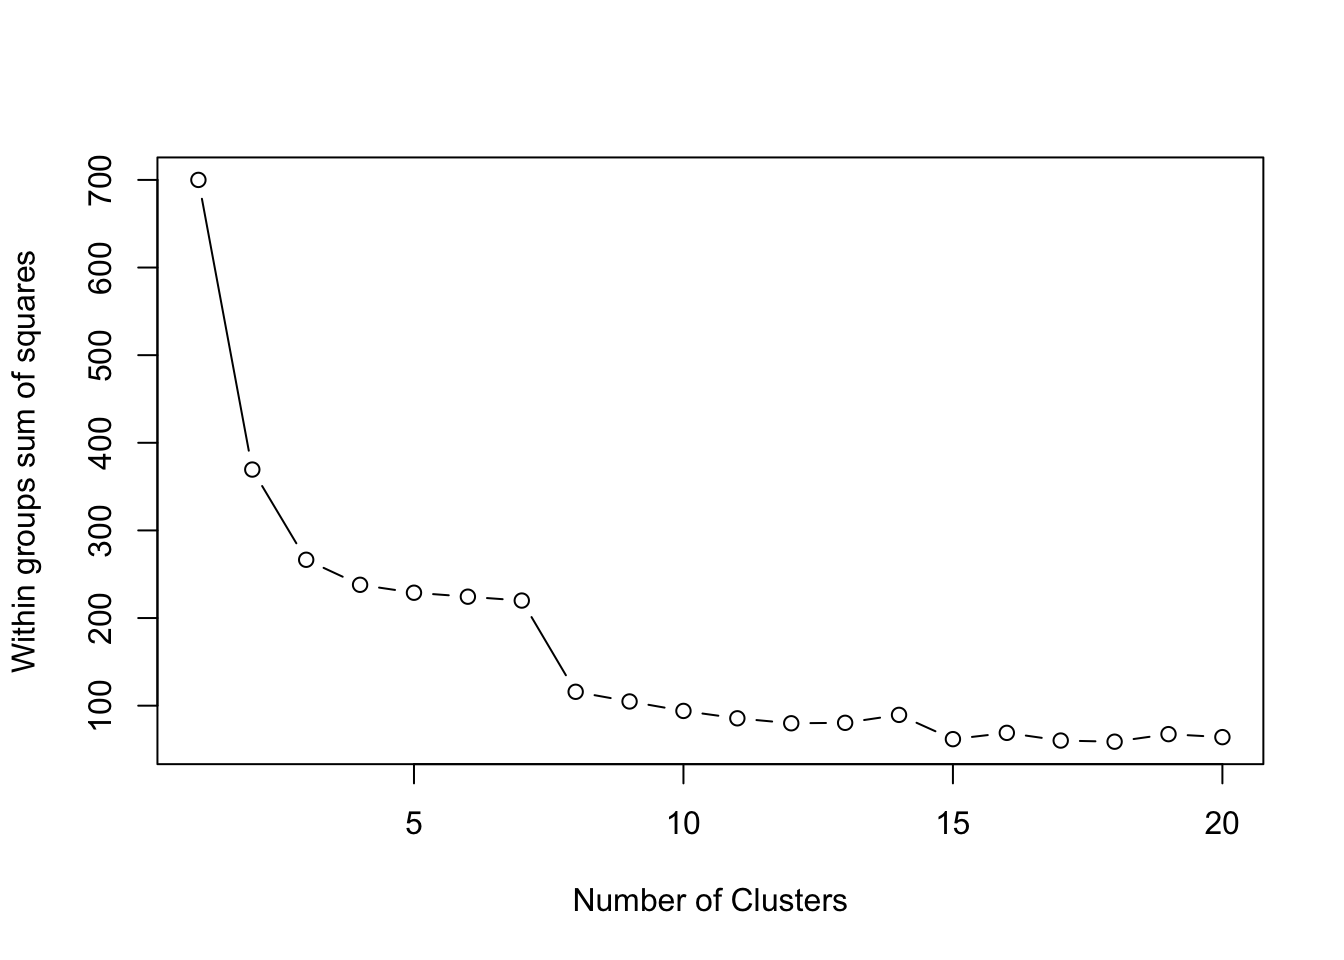
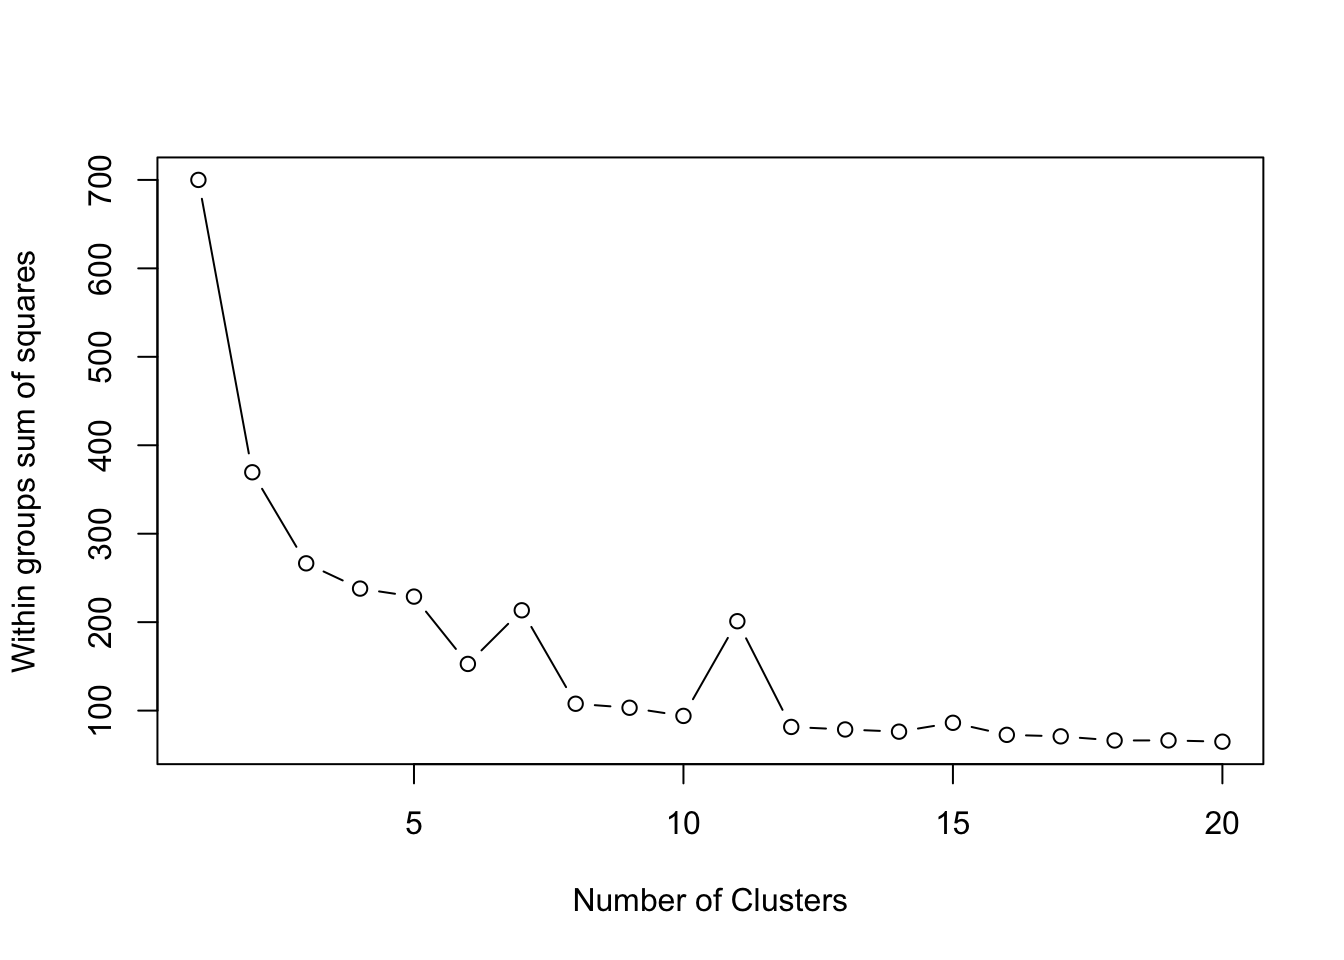
add descriptions to chunks

diff --git a/2019-09-04-Toronto_MCI.html b/2019-09-04-Toronto_MCI.html
@@ -315,6 +315,8 @@ $(document).ready(function () {
 
 
 <p><link rel="stylesheet" href="styles.css" type="text/css"></p>
+<div id="toronto-major-crime-indicators-2014-2018" class="section level1">
+<h1>Toronto Major Crime Indicators 2014-2018</h1>
 <div id="introduction" class="section level2">
 <h2>1. Introduction</h2>
 <p>Toronto Police made publicly available its data on the <strong><a href="https://data.torontopolice.on.ca/search?tags=MCI">“Toronto Police Service Public Safety Data Portal”</a></strong>.</p>
@@ -855,9 +857,9 @@ wss</code></pre>
   wss[i] &lt;- sum(kmeans(z, centers=i)$withinss)
 }
 wss</code></pre>
-<pre><code>##  [1] 700.00000 369.45787 266.50542 237.94558 228.89866 224.37644 219.95452
-##  [8] 115.84899 104.80120  94.00327  85.57967  79.91716  80.43286  89.49358
-## [15]  61.80199  68.98196  60.19511  58.89800  67.51510  64.08788</code></pre>
+<pre><code>##  [1] 700.00000 369.45787 266.50542 237.94558 228.89866 152.77542 213.41202
+##  [8] 107.75724 103.22366  94.00327 201.06666  81.53333  78.68695  76.20141
+## [15]  86.21518  72.59308  70.89679  66.22138  66.32382  64.85852</code></pre>
 <p>Plotted WSS (type=‘b’ is for both: lines and points.)</p>
 <pre class="r"><code>plot(1:20, wss, type=&#39;b&#39;, xlab=&#39;Number of Clusters&#39;, ylab=&#39;Within groups sum of squares&#39;)</code></pre>
 <p><img src="2019-09-04-Toronto_MCI_files/figure-html/WSS%20plot-1.png" width="672" /></p>
@@ -867,25 +869,25 @@ wss</code></pre>
 <h3>Fitting a model, K = 5</h3>
 <pre class="r"><code>kc &lt;- kmeans(z, 5)
 kc</code></pre>
-<pre><code>## K-means clustering with 5 clusters of sizes 24, 17, 9, 36, 55
+<pre><code>## K-means clustering with 5 clusters of sizes 24, 9, 55, 17, 36
 ## 
 ## Cluster means:
 ##      Assault  Auto Theft Break and Enter     Robbery  Theft Over
 ## 1  0.1003022 -0.05975684       0.6193567  0.08152204  0.08407757
-## 2  1.0426316  0.67577638       0.6239794  1.00004211  0.58946987
-## 3  2.6031156  1.73164012       2.6607249  2.40290255  3.24097907
-## 4 -0.2271916 -0.05869507      -0.2893964 -0.18812825 -0.31797748
-## 5 -0.6432934 -0.42774132      -0.7090994 -0.61474092 -0.54109949
+## 2  2.6031156  1.73164012       2.6607249  2.40290255  3.24097907
+## 3 -0.6432934 -0.42774132      -0.7090994 -0.61474092 -0.54109949
+## 4  1.0426316  0.67577638       0.6239794  1.00004211  0.58946987
+## 5 -0.2271916 -0.05869507      -0.2893964 -0.18812825 -0.31797748
 ## 
 ## Clustering vector:
-##   [1] 1 1 5 3 1 4 3 4 5 1 5 2 1 2 5 4 5 5 4 1 5 5 5 3 2 4 4 4 4 5 1 1 2 2 5
-##  [36] 1 5 1 5 4 5 4 5 4 5 5 2 4 5 5 4 5 4 4 5 2 4 5 5 3 4 5 1 3 4 5 1 5 5 5
-##  [71] 5 5 5 5 2 5 5 1 2 5 3 4 2 5 1 4 1 4 1 5 1 4 1 5 5 4 1 4 5 5 5 4 5 4 1
-## [106] 1 2 5 5 4 4 2 1 4 4 4 4 4 5 5 1 1 5 3 2 3 4 4 5 2 2 5 4 2 5 5 5 5 5 3
-## [141] 2
+##   [1] 1 1 3 2 1 5 2 5 3 1 3 4 1 4 3 5 3 3 5 1 3 3 3 2 4 5 5 5 5 3 1 1 4 4 3
+##  [36] 1 3 1 3 5 3 5 3 5 3 3 4 5 3 3 5 3 5 5 3 4 5 3 3 2 5 3 1 2 5 3 1 3 3 3
+##  [71] 3 3 3 3 4 3 3 1 4 3 2 5 4 3 1 5 1 5 1 3 1 5 1 3 3 5 1 5 3 3 3 5 3 5 1
+## [106] 1 4 3 3 5 5 4 1 5 5 5 5 5 3 3 1 1 3 2 4 2 5 5 3 4 4 3 5 4 3 3 3 3 3 2
+## [141] 4
 ## 
 ## Within cluster sum of squares by cluster:
-## [1]  16.14354  33.77676 152.52923  13.91044  12.53869
+## [1]  16.14354 152.52923  12.53869  33.77676  13.91044
 ##  (between_SS / total_SS =  67.3 %)
 ## 
 ## Available components:
@@ -907,40 +909,40 @@ kc</code></pre>
 <h3>Plotting k = 5</h3>
 <pre class="r"><code>z1 &lt;- data.frame(z, kc$cluster)
 clusplot(z1, kc$cluster, color=TRUE, shade=F, labels=0, lines=0, main=&#39;k-Means Cluster Analysis k=5&#39;)</code></pre>
-<p><img src="2019-09-04-Toronto_MCI_files/figure-html/unnamed-chunk-2-1.png" width="672" /></p>
+<p><img src="2019-09-04-Toronto_MCI_files/figure-html/clusplot%20k%205-1.png" width="672" /></p>
 </div>
 <div id="fitting-a-model-k-10" class="section level3">
 <h3>Fitting a model, K = 10</h3>
 <pre class="r"><code>kc &lt;- kmeans(z, 10)
 kc</code></pre>
-<pre><code>## K-means clustering with 10 clusters of sizes 25, 12, 24, 15, 14, 1, 9, 19, 8, 14
+<pre><code>## K-means clustering with 10 clusters of sizes 26, 1, 11, 6, 24, 16, 22, 9, 2, 24
 ## 
 ## Cluster means:
-##       Assault Auto Theft Break and Enter     Robbery Theft Over
-## 1   0.0895508 -0.2088871       0.3108087  0.05247316 -0.1011220
-## 2  -0.2246827  0.3297193      -0.3274091 -0.07924468 -0.2249897
-## 3  -0.4197907 -0.4454685      -0.4969791 -0.44214251 -0.4216689
-## 4  -0.7292707 -0.1880378      -0.3055931 -0.71565916 -0.3586513
-## 5  -0.3841048 -0.2530677      -0.8211029 -0.24701716 -0.6220752
-## 6   1.2585733  9.6945198       2.4313261  2.05720435  4.7501907
-## 7   1.3761009  0.7324192       0.4262353  1.52159956  0.2760739
-## 8  -0.7608986 -0.5589355      -0.9146672 -0.78044167 -0.6304953
-## 9   2.7711834  0.7362802       2.6893997  2.44611483  3.0523276
-## 10  0.3923610  0.4831104       0.9829688  0.28225200  0.6973382
+##       Assault Auto Theft Break and Enter     Robbery  Theft Over
+## 1  -0.7275415 -0.5320509      -0.8472560 -0.73720407 -0.58978790
+## 2   1.2585733  9.6945198       2.4313261  2.05720435  4.75019073
+## 3   0.2882257  0.6244522       1.0352809  0.32106329  0.78960483
+## 4   2.3460937  0.9123407       2.5334647  1.40731446  3.30520085
+## 5  -0.3397571 -0.3504884      -0.7034876 -0.27924361 -0.52703273
+## 6  -0.1519249  0.1451163      -0.1542444 -0.01080156 -0.26813871
+## 7   0.2424271 -0.1908809       0.4551731  0.07636603  0.03317452
+## 8   1.3761009  0.7324192       0.4262353  1.52159956  0.27607391
+## 9   4.0464524  0.2080985       3.1572046  5.56251593  2.29370793
+## 10 -0.6173241 -0.2051226      -0.3251779 -0.60376211 -0.36647830
 ## 
 ## Clustering vector:
-##   [1]  1 10  4  9  1  2  9  4  8 10  5  7  1  7  8  2  4  8  2  1  8  3  8
-##  [24]  9 10  4  1  5  1  8  1 10  7  7  3 10  4  1  5  2  8  5  8  5  4  4
-##  [47]  7  3  8  8  1  3  3  3  4 10  2  8  3  9  2  5  1  9  2  3  1  8  4
-##  [70]  4  4  4  3  3  7  8  8 10 10  5  9  5  7  8  1  3  1  1  1  3  1  3
-##  [93]  1  5  3  3  1  2  3  8  4  3  5  2  1 10 10  5  5  1  1 10  1  4  2
-## [116]  1  3  3  5  3  1  1  3  9  7  6  4  2  5 10 10  3  2  7  3  8  3  8
-## [139]  8  9 10
+##   [1]  6  3 10  4  7  6  4 10  1  3  5  8  7  8  1  6 10  1  5  7  1  1  1
+##  [24]  9  3 10  6  5  7  1  7  3  8  8  5  7 10  7  5  6  1 10  1  5 10 10
+##  [47]  8 10  1  1  6 10  5 10 10  3  6  1  5  4  6  5  7  4  6  1  7  1 10
+##  [70] 10 10 10 10  1  8  1  1  3  7  5  9  5  8  1  7  5  7  6  7  5  7  5
+##  [93]  7  5  1 10  7 10 10  1  1  5  5  6  7  7  3  5  5  6  7  3  7 10  6
+## [116]  6  5 10  5  5  7  7  1  4  8  2 10  6  5  3  3  1  6  8  5  1 10  1
+## [139]  1  4  3
 ## 
 ## Within cluster sum of squares by cluster:
-##  [1] 11.311903  3.845815  3.411355  2.741300  1.697859  0.000000 15.813567
-##  [8]  1.881279 76.405991 14.735673
-##  (between_SS / total_SS =  81.2 %)
+##  [1]  3.070321  0.000000 10.783056 32.414426  4.290106  5.424345 12.352458
+##  [8] 15.813567 10.893997  4.728976
+##  (between_SS / total_SS =  85.7 %)
 ## 
 ## Available components:
 ## 
@@ -952,7 +954,7 @@ kc</code></pre>
 <h3>Plotting k = 10</h3>
 <pre class="r"><code>z1 &lt;- data.frame(z, kc$cluster)
 clusplot(z1, kc$cluster, color=TRUE, shade=F, labels=0, lines=0, main=&#39;k-Means Cluster Analysis k=10&#39;)</code></pre>
-<p><img src="2019-09-04-Toronto_MCI_files/figure-html/unnamed-chunk-4-1.png" width="672" /></p>
+<p><img src="2019-09-04-Toronto_MCI_files/figure-html/clusplot%20k%2010-1.png" width="672" /></p>
 </div>
 </div>
 <div id="hierarchical-clustering" class="section level2">
@@ -963,16 +965,16 @@ clusplot(z1, kc$cluster, color=TRUE, shade=F, labels=0, lines=0, main=&#39;k-Mea
 distance &lt;- dist(z2)
 hc &lt;- hclust(distance)</code></pre>
 <pre class="r"><code>plot(hc, labels = groups_wide$Neighbourhood, main=&#39;Cluster Dendrogram&#39;, cex=0.65)</code></pre>
-<p><img src="2019-09-04-Toronto_MCI_files/figure-html/unnamed-chunk-6-1.png" width="672" /></p>
+<p><img src="2019-09-04-Toronto_MCI_files/figure-html/dendrogram%20plot-1.png" width="672" /></p>
 </div>
 <div id="silhouette-plot" class="section level3">
 <h3>Silhouette plot</h3>
 <pre class="r"><code>plot(silhouette(cutree(hc, 5), distance))</code></pre>
-<p><img src="2019-09-04-Toronto_MCI_files/figure-html/unnamed-chunk-7-1.png" width="672" /></p>
+<p><img src="2019-09-04-Toronto_MCI_files/figure-html/silhouette%20k%205-1.png" width="672" /></p>
 <pre class="r"><code>plot(silhouette(cutree(hc, 10), distance))</code></pre>
-<p><img src="2019-09-04-Toronto_MCI_files/figure-html/unnamed-chunk-8-1.png" width="672" /></p>
+<p><img src="2019-09-04-Toronto_MCI_files/figure-html/silhouette%20k%2010-1.png" width="672" /></p>
 <pre class="r"><code>plot(silhouette(cutree(hc, 2), distance))</code></pre>
-<p><img src="2019-09-04-Toronto_MCI_files/figure-html/unnamed-chunk-9-1.png" width="672" /></p>
+<p><img src="2019-09-04-Toronto_MCI_files/figure-html/silhouette%20k%202-1.png" width="672" /></p>
 </div>
 </div>
 <div id="map-of-toronto-crimes-2014-2018" class="section level2">
@@ -996,7 +998,7 @@ my_map &lt;- get_map(location = sbbox, maptype = &quot;roadmap&quot;, scale = 2,
   ylab(&#39;Latitude&#39;) +
   ggtitle(&#39;Location of Major Crime Indicators Toronto 2014-2018&#39;) +
   guides(color=FALSE)</code></pre>
-<p><img src="2019-09-04-Toronto_MCI_files/figure-html/crime%20map-1.png" width="672" /></p>
+<p><img src="2019-09-04-Toronto_MCI_files/figure-html/major%20crimes%20map-1.png" width="672" /></p>
 <div id="location-of-major-crime-indicators" class="section level3">
 <h3>Location of major crime indicators</h3>
 <pre class="r"><code>ggmap(my_map) +
@@ -1007,7 +1009,8 @@ my_map &lt;- get_map(location = sbbox, maptype = &quot;roadmap&quot;, scale = 2,
   ggtitle(&#39;Location of Major Crime Indicators Toronto 2014-2018&#39;) +
   guides(color=FALSE) +
   facet_wrap(~ crimes, nrow = 2)</code></pre>
-<p><img src="2019-09-04-Toronto_MCI_files/figure-html/unnamed-chunk-10-1.png" width="672" /></p>
+<p><img src="2019-09-04-Toronto_MCI_files/figure-html/maps%20one%20per%20major%20crime-1.png" width="672" /></p>
+</div>
 </div>
 </div>
 
